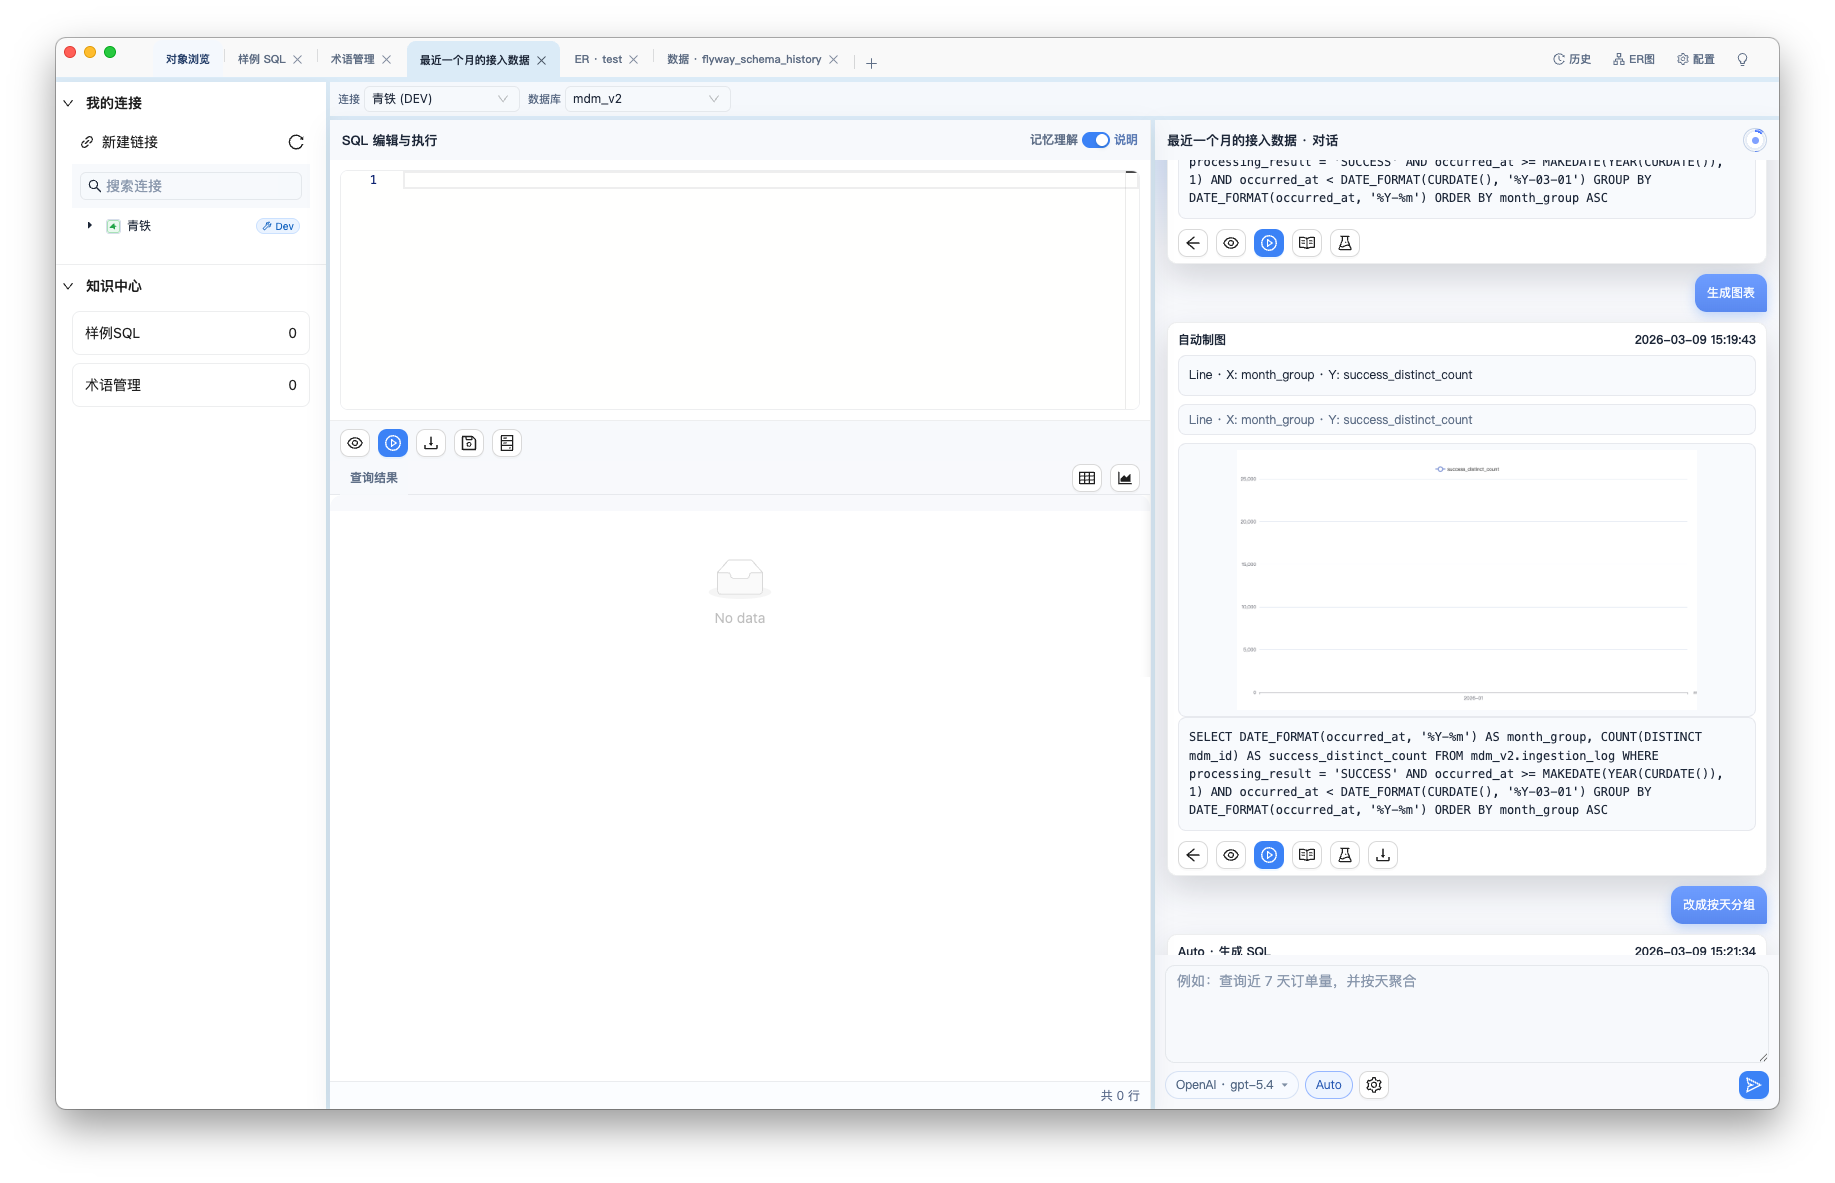
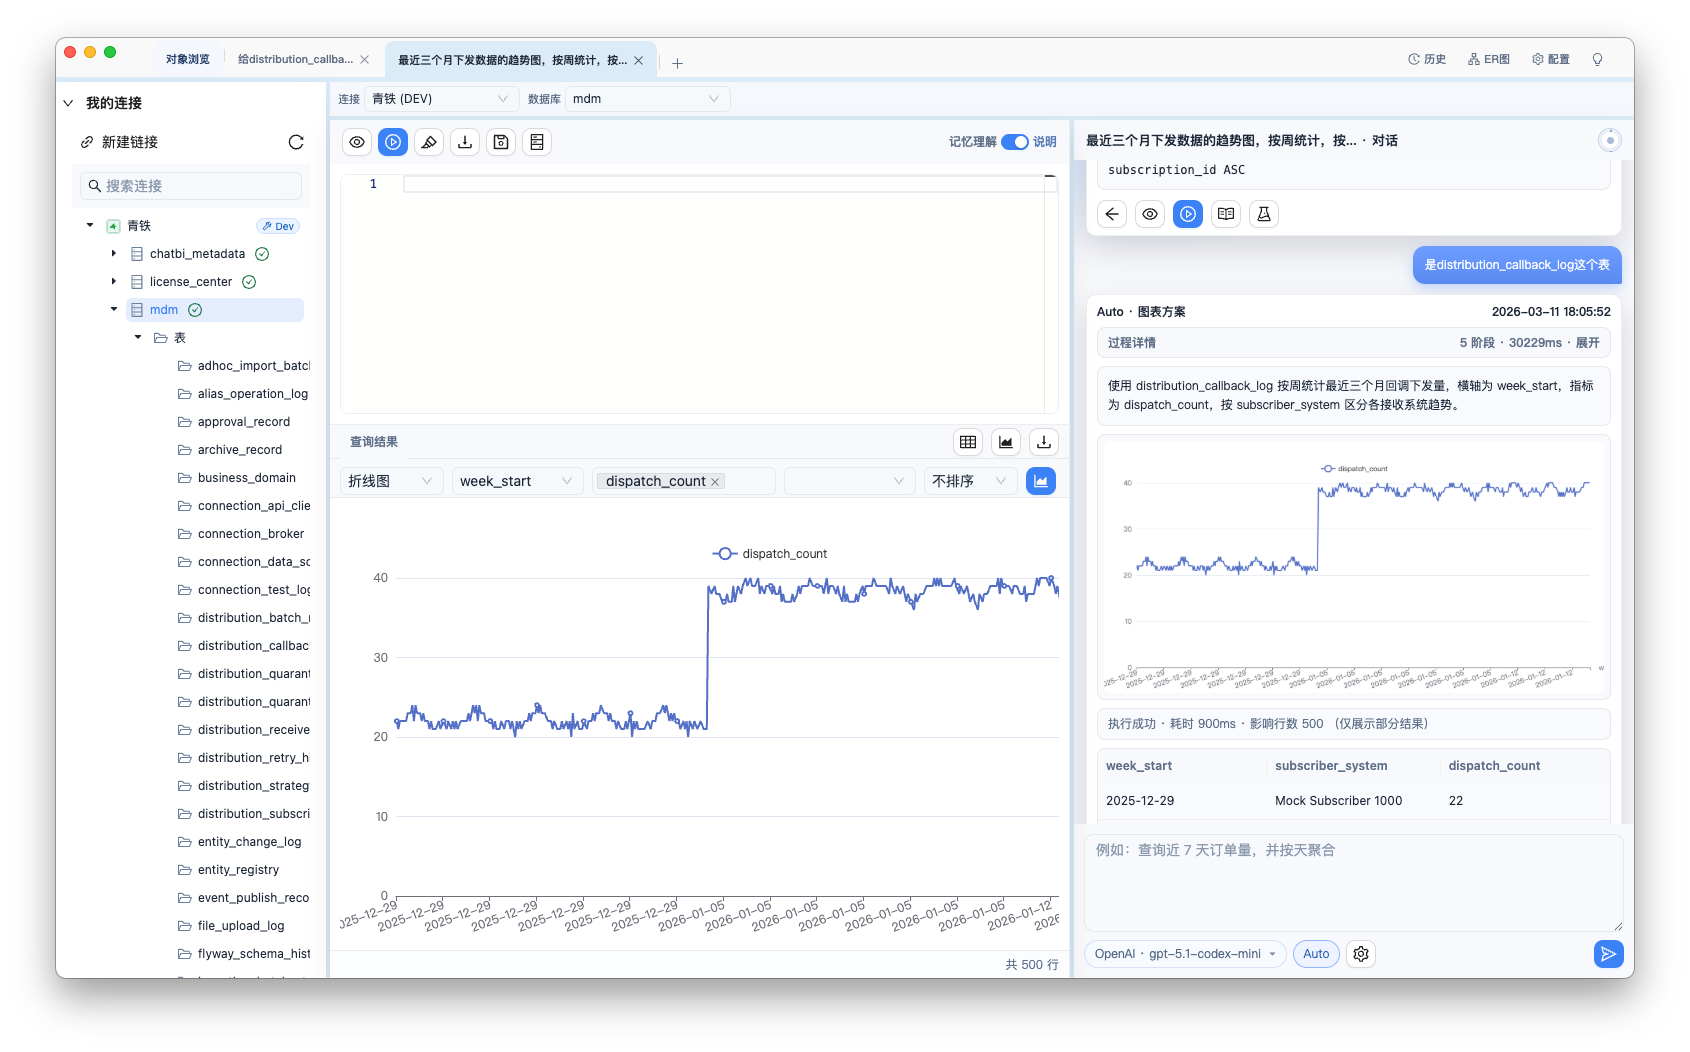
流式对话调整

diff --git a/apps/desktop/src/api/client.ts b/apps/desktop/src/api/client.ts
@@ -61,6 +61,7 @@ export async function postSseApi<T>(path: string, payload: unknown, options: Pos
   const decoder = new TextDecoder();
   let buffer = '';
   let lastYieldAt = now();
+  let eventsSinceYield = 0;
   while (true) {
     const {done, value} = await reader.read();
     buffer += decoder.decode(value || new Uint8Array(), {stream: !done});
@@ -71,9 +72,12 @@ export async function postSseApi<T>(path: string, payload: unknown, options: Pos
       const parsed = parseSseEvent<T>(rawEvent);
       if (parsed) {
         await options.onEvent(parsed);
-        if (now() - lastYieldAt >= 16) {
+        eventsSinceYield += 1;
+        const nextBoundary = findSseBoundary(buffer);
+        if (shouldYieldAfterSseEvent(parsed.event, nextBoundary.index >= 0, eventsSinceYield, lastYieldAt)) {
           await yieldToBrowser();
           lastYieldAt = now();
+          eventsSinceYield = 0;
         }
       }
       boundary = findSseBoundary(buffer);
@@ -105,6 +109,27 @@ function yieldToBrowser() {
   return new Promise<void>((resolve) => {
     window.setTimeout(resolve, 0);
   });
+}
+
+function shouldYieldAfterSseEvent(
+  eventName: string,
+  hasBufferedEvent: boolean,
+  eventsSinceYield: number,
+  lastYieldAt: number,
+) {
+  if (hasBufferedEvent && isRenderRelevantSseEvent(eventName)) {
+    return true;
+  }
+  if (eventsSinceYield >= 8) {
+    return true;
+  }
+  return now() - lastYieldAt >= 16;
+}
+
+function isRenderRelevantSseEvent(eventName: string) {
+  return eventName === 'stage.updated'
+    || eventName === 'trace.snapshot'
+    || eventName.startsWith('llm.');
 }
 
 function findSseBoundary(buffer: string) {

diff --git a/docs/20260311164209-query-chat-streaming-render.md b/docs/20260311164209-query-chat-streaming-render.md
@@ -72,3 +72,29 @@
 - 前端构建：`npm run -w @sqlcopilot/desktop build` 通过。
 - 后端 clean 启动：`mvn -f apps/server/pom.xml clean spring-boot:run -Dspring-boot.run.arguments=--server.port=18094` 成功，`http://127.0.0.1:18094/api/health` 返回 `{"code":0,"message":"success","data":"ok"}`。
 - 前端预览：`npm run -w @sqlcopilot/desktop preview -- --host 127.0.0.1 --port 6050` 成功，`http://127.0.0.1:6050` 返回 `HTTP/1.1 200 OK`。
+
+
+### 2026-03-11 18:05:23
+
+### 2026-03-11 18:05:00
+
+## 追加记录（2026-03-11 18:05）- SSE 同一批次事件主动让出主线程
+
+### 本次目标
+- 修复后端已返回流式 SSE 事件，但前端仍常在请求结束后才一次性显示回复的问题。
+
+### 关键改动
+- 前端 `apps/desktop/src/api/client.ts`：
+  - 在 `postSseApi` 中新增 `eventsSinceYield` 计数。
+  - 新增 `shouldYieldAfterSseEvent(...)` 与 `isRenderRelevantSseEvent(...)`。
+  - 当同一个 `reader.read()` 批次里缓冲区还存在后续 `stage.updated`、`trace.snapshot`、`llm.*` 事件时，立即 `yieldToBrowser()`，不再只依赖 16ms 时间片。
+  - 同时保留事件计数阈值兜底，避免大量小事件在极短时间内被同步吃完，导致 Vue 只能在最终结果到达后统一重绘。
+
+### 验证结果
+- 前端类型检查：`npm run -w @sqlcopilot/desktop type-check` 通过。
+- 前端 clean 构建：删除 `apps/desktop/dist` 后执行 `npm run -w @sqlcopilot/desktop build` 通过。
+- 前端预览：`npm run -w @sqlcopilot/desktop preview -- --host 127.0.0.1 --port 6051` 成功，`http://127.0.0.1:6051` 返回 `HTTP/1.1 200 OK`。
+- 后端 clean 启动：首次执行 `mvn -f apps/server/pom.xml clean spring-boot:run` 因端口 `18080` 被本机已有进程占用而失败；改用 `mvn -f apps/server/pom.xml clean spring-boot:run -Dspring-boot.run.arguments=--server.port=18096` 后启动成功，健康检查 `http://127.0.0.1:18096/api/health` 返回 `{"code":0,"message":"success","data":"ok"}`。
+
+### 备注
+- 本次未改动后端 SSE 协议与消息结构，仅修正前端在单批次多事件场景下的渲染让出策略。
